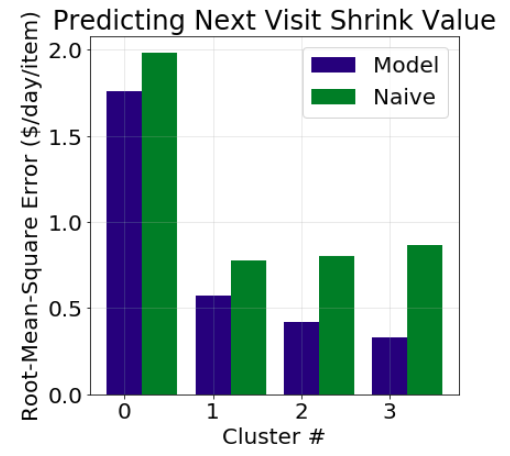
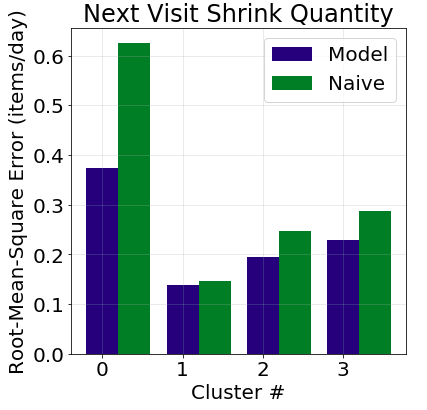
daily update

Changed region(s): [[0.0, 0.0, 0.9742, 0.9951]]

diff --git a/src/run_pipeline.py b/src/run_pipeline.py
@@ -64,39 +64,45 @@ def run_pred_model(df, non_feature_cols, cust_table, grid_search=True, model=Non
           title='Predicting Next Visit Shrink Value')
 	return pm, X_train_ss, y_train
 
-def run_forc_model(df, non_feature_cols, cust_table, model, params, rmse_plot=False):
+def run_forc_model(df, non_feature_cols, cust_table, grid_search=True, model=None, param_grid=None, user_model_list=None, rmse_plot=True):
 	print('Running Forecast Model...')
+	print('Creating lag variables...')
 	cl = CreateLag(lag_periods=2, col_filters=['address1'], 
                    date_col='visit_date', lag_vars=['qty_shrink_per_day', 'shrink_value_per_day'], 
                    col_name_suf='_by_store', remove_nan_rows=True)
 	df_lag = cl.fit_transform(df)
 
+	print('Adding public data...')
 	pub = PublicData(include_crime=False, remove_nan_rows=True)
 	df_public = pub.fit_transform(df_lag)
 
+	print('Splitting...')
 	split_date = pd.to_datetime('12/1/2017')
 	spl = Split(non_feature_cols, target_col='shrink_value_per_day', split_by_time=True, date_col='visit_date', split_date=split_date)
 	spl.fit(df_public, cust_table)
 	X, y, X_train, X_test, y_train, y_test = spl.transform(df_public, cust_table)
 
+	print('Standardizing...')
 	ss = StdScale(std=True, scale=True)
 	X_ss = ss.fit_transform(X)
 	X_train_ss = ss.fit_transform(X_train)
 	X_test_ss = ss.fit_transform(X_test)
 
+	print('Fitting model...')
 	forc_cols = ['FD_ratio', 'LAPOP1_10', 'POP2010', 'dens_sq_mile', 'unemp_rate', 'qty_POG_limit', 'unit_price', 'shrink_value_per_day_lag1_by_store', 'shrink_value_per_day_lag2_by_store' ]
 	for col in X_ss.columns:
 	    if 'customer_id' in col:
 	        forc_cols.append(col)
-	fc = Forecast(model, params, forc_cols, num_periods=4)
+	fc = Forecast(forc_cols, grid_search=grid_search, model=model, param_grid=param_grid, user_model_list=user_model_list, num_periods=4)
 	fitted_models = fc.fit(X_ss, y)
 	if rmse_plot:
+		print('Plotting...')
 		# plot forecast against current training data
 		cluster_rmse, naive_rmse = model_clusters(fitted_models, X_test=X_test_ss, X_test_ns=X_test, naive_col='shrink_value_per_day_lag1_by_store', col_mask=forc_cols, y_test=y_test)
 		plot_rmse(cluster_rmse, naive_rmse, num_clusters=len(X.cluster.unique()), 
           title='Training Forecast')
 		# plot forecast against future data
-		forc_model_test(X_test, y_test, fitted_models, col_mask=forc_cols)
+		forc_model_test(X_test, y_test, fitted_models, col_mask=forc_cols, max_periods=10)
 	return fc.forecast(cust_table)
 
 if __name__ == '__main__':
@@ -106,7 +112,7 @@ if __name__ == '__main__':
 	df = dc.fit_transform(df)
 	
 	# customer table and segmentation
-	load_table = False
+	load_table = True
 	if load_table:
 		try:
 			cust_table = pd.read_pickle('../data/SRP/cust_table_out.pkl')
@@ -117,7 +123,7 @@ if __name__ == '__main__':
 	print(cust_table.groupby('cluster').mean())
 
 	# build models
-	non_feature_cols = ['shrink_value', 'shrink_to_sales_value_pct', 'shrink_value_out', 'shrink_to_sales_value_pct_out', 'shrink_value_ex_del', 'shrink_to_sales_value_pct_ex_del', 'qty_inv_out', 'qty_shrink', 'qty_shrink_ex_del', 'qty_shrink_out', 'qty_end_inventory', 'qty_f', 'qty_out', 'qty_ex_del', 'qty_n', 'qty_delivery', 'qty_o', 'qty_d', 'qty_shrink_per_day', 'shrink_value_per_day']
+	non_feature_cols = ['shrink_value', 'shrink_to_sales_value_pct', 'shrink_value_out', 'shrink_to_sales_value_pct_out', 'shrink_value_ex_del', 'shrink_to_sales_value_pct_ex_del', 'qty_inv_out', 'qty_shrink', 'qty_shrink_ex_del', 'qty_shrink_out', 'qty_end_inventory', 'qty_f', 'qty_out', 'qty_ex_del', 'qty_n', 'qty_delivery', 'qty_o', 'qty_d', 'qty_shrink_per_day', 'shrink_value_per_day', 'qty_start_inventory']
 	use_MLP=True
 	if use_MLP:
 		model = MLPRegressor()
@@ -130,19 +136,7 @@ if __name__ == '__main__':
 		params_basic = {'n_estimators': [10], 'n_jobs': [-1]}
 
 	# daily prediction model
-	pm, X_train_ss, y_train = run_pred_model(df, non_feature_cols, cust_table, grid_search=True, model=model, param_grid=params, user_model_list=None, rmse_plot=True)
-
-	# opt_params: cluster:  1
-	# {'activation': 'identity', 'alpha': 0.001, 'hidden_layer_sizes': (300,), 'learning_rate_init': 0.0001, 'max_iter': 3000, 'solver': 'adam'}
-
-	# cluster:  2
-	# {'activation': 'tanh', 'alpha': 0.0001, 'hidden_layer_sizes': (100,), 'learning_rate_init': 0.0001, 'max_iter': 3000, 'solver': 'adam'}
-
-	# cluster:  3
-	# {'activation': 'relu', 'alpha': 0.0001, 'hidden_layer_sizes': (300,), 'learning_rate_init': 0.0001, 'max_iter': 3000, 'solver': 'adam'}
-
-	# cluster:  4
-	# {'activation': 'logistic', 'alpha': 0.0001, 'hidden_layer_sizes': (50, 50, 50), 'learning_rate_init': 0.01, 'max_iter': 3000, 'solver': 'adam'}
+	#pm, X_train_ss, y_train = run_pred_model(df, non_feature_cols, cust_table, grid_search=True, model=model, param_grid=params, user_model_list=None, rmse_plot=True)
 
 	# forecast model
-	#cust_table_agg = run_forc_model(df, non_feature_cols, cust_table, model, params, rmse_plot=True)
+	cust_table_agg = run_forc_model(df, non_feature_cols, cust_table, grid_search=True, model=model, param_grid=params, user_model_list=None, rmse_plot=True)

diff --git a/src/model_functions.py b/src/model_functions.py
@@ -37,7 +37,7 @@ def avg_dec(cluster_rmse, naive_rmse):
         print('Cluster {} decrease: {}'.format(i, round(dec, 3) * 100))
     return np.mean(avg_dec)
 
-def plot_rmse(cluster_rmse, naive_rmse, num_clusters, title='Root-Mean-Square Error'):
+def plot_rmse(cluster_rmse, naive_rmse, num_clusters, yaxis_units='$/day/item', title='Root-Mean-Square Error'):
     fig = plt.figure(figsize=(6,6))
     ax = fig.add_subplot(1,1,1)
     clusters = np.arange(0, num_clusters)
@@ -46,7 +46,7 @@ def plot_rmse(cluster_rmse, naive_rmse, num_clusters, title='Root-Mean-Square Er
     ax.set_xticks(clusters)
     ax.set_xticklabels(clusters)
     ax.set_xlabel('Cluster #')
-    ax.set_ylabel('Root-Mean-Square Error ($/day/item)')
+    ax.set_ylabel('Root-Mean-Square Error ({})'.format(yaxis_units))
     ax.set_title(title)
     ax.grid(alpha=0.3)
     ax.legend()
@@ -58,7 +58,7 @@ def clust_grid(model, params, X_train, y_train, mask_cols):
     best_params_list = []
     for clust in range(0, len(X_train.cluster.unique())):
         print()
-        print('cluster: ', clust + 1)
+        print('cluster: ', clust)
         test_model = model
         train_clust_mask = X_train.cluster == str(clust)
         grid = GridSearchCV(test_model, param_grid=params, verbose=0)
@@ -103,7 +103,7 @@ def _split_and_plot(rmse_dict):
                     naive_rmse[int(clust)] = np.mean(rmse_dict[i][kind][clust])
         plot_rmse(cluster_rmse, naive_rmse, num_clusts, title='{} Time Period(s) Forward'.format(int(i) + 1))
 
-def forc_model_test(X_test, y_test, test_cluster_models, col_mask):
+def forc_model_test(X_test, y_test, test_cluster_models, col_mask, max_periods=10):
     rmse_dict = defaultdict(lambda: defaultdict(lambda: defaultdict(lambda: [])))
     lag1_loc = X_test[col_mask].columns.get_loc('shrink_value_per_day_lag1_by_store')
     lag2_loc = X_test[col_mask].columns.get_loc('shrink_value_per_day_lag2_by_store')
@@ -135,6 +135,8 @@ def forc_model_test(X_test, y_test, test_cluster_models, col_mask):
             lag1_val = pred
                                 
             i += 1
+            if i >= max_periods:
+                break
     _split_and_plot(rmse_dict)
 
 def pred_shrink_value(cust_table, start_date, end_date, num_periods):

diff --git a/src/forecast.py b/src/forecast.py
@@ -8,16 +8,26 @@ __author__ = "Luke Olson"
 
 class Forecast(BaseEstimator, TransformerMixin):
     """
-    A generic class
+    Forecast shrink value for stores.
     """
 
-    def __init__(self, model, param_grid, model_mask_cols, num_periods=4):
+    def __init__(self, model_mask_cols, grid_search=True, model=None, param_grid=None, user_model_list=None, num_periods=4):
         """
         Constructor
         """
+        if grid_search & (param_grid == None):
+            print('Param Grid must be passed if grid_search=True')
+        elif grid_search & (model == None):
+            print('Model must be passed if grid_search=True')
+            return()
+        elif (not grid_search) & (user_model_list == None):
+            print('List of models to fit must be passed if grid_search=False')
+            return
+        self.model_mask_cols = model_mask_cols
+        self.grid_search = grid_search
         self.model = model
         self.param_grid = param_grid
-        self.model_mask_cols = model_mask_cols
+        self.user_model_list = user_model_list
         self.num_periods = num_periods
 
     def grid(self):
@@ -68,8 +78,17 @@ class Forecast(BaseEstimator, TransformerMixin):
     def fit(self, X, y):
         self.X = X
         self.y = y
-        self.grid()
-        self._create_models()
+        if self.grid_search:
+            # grid search over params to determine best model for each cluster
+            self.grid()
+            self.model_list = self._create_models()
+        else:
+            if len(self.X.cluster.unique()) != len(self.user_model_list):
+                print('Number of models does not match number of clusters')
+                return()
+            else:
+                # use user defined params for cluster models
+                self.model_list = self.user_model_list
         for index, model in enumerate(self.model_list):
             fit_clust_mask = self.X.cluster == str(index)
             model.fit(self.X[ self.model_mask_cols ][fit_clust_mask], self.y[fit_clust_mask])

diff --git a/src/create_lag.py b/src/create_lag.py
@@ -7,7 +7,7 @@ __author__ = "Luke Olson"
 
 class CreateLag(BaseEstimator, TransformerMixin):
     """
-    A generic class
+    Create lag columns to capture target variables at previous time points.
     """
 
     def __init__(self, lag_periods, col_filters, date_col, lag_vars, col_name_suf, remove_nan_rows=True):

diff --git a/src/split.py b/src/split.py
@@ -8,7 +8,7 @@ __author__ = "Luke Olson"
 
 class Split(BaseEstimator, TransformerMixin):
     """
-    A generic class
+    Break data into features and targets, and train/test split by time or randomly.
     """
 
     def __init__(self, non_feature_cols, target_col, split_by_time, date_col=None, split_date=None):

diff --git a/src/pred_model.py b/src/pred_model.py
@@ -8,7 +8,7 @@ __author__ = "Luke Olson"
 
 class PredModel(BaseEstimator, TransformerMixin):
     """
-    A generic class
+    Prediction model to estimate shrink on a visit by visit basis.
     """
 
     def __init__(self, grid_search=True, model=None, param_grid=None, user_model_list=None):

diff --git a/src/data_clean.py b/src/data_clean.py
@@ -8,7 +8,7 @@ __author__ = "Luke Olson"
 
 class DataClean(BaseEstimator, TransformerMixin):
     """
-    A generic class
+    Clean data - create new columns, drop others, and get rid of nan values.
     """
 
     def __init__(self, remove_nan_rows=True):

diff --git a/src/cust_seg.py b/src/cust_seg.py
@@ -17,7 +17,7 @@ __author__ = "Luke Olson"
 
 class CustSeg(BaseEstimator, TransformerMixin):
     """
-    A generic class
+    Segment customers into distinct clusters.
     """
 
     def __init__(self, clusters=4, plot_clusts=False, plot_sil=False):

diff --git a/src/std_scale.py b/src/std_scale.py
@@ -7,7 +7,7 @@ __author__ = "Luke Olson"
 
 class StdScale(BaseEstimator, TransformerMixin):
     """
-    A generic class
+    Standardize and scale data.
     """
 
     def __init__(self, std=True, scale=True):
